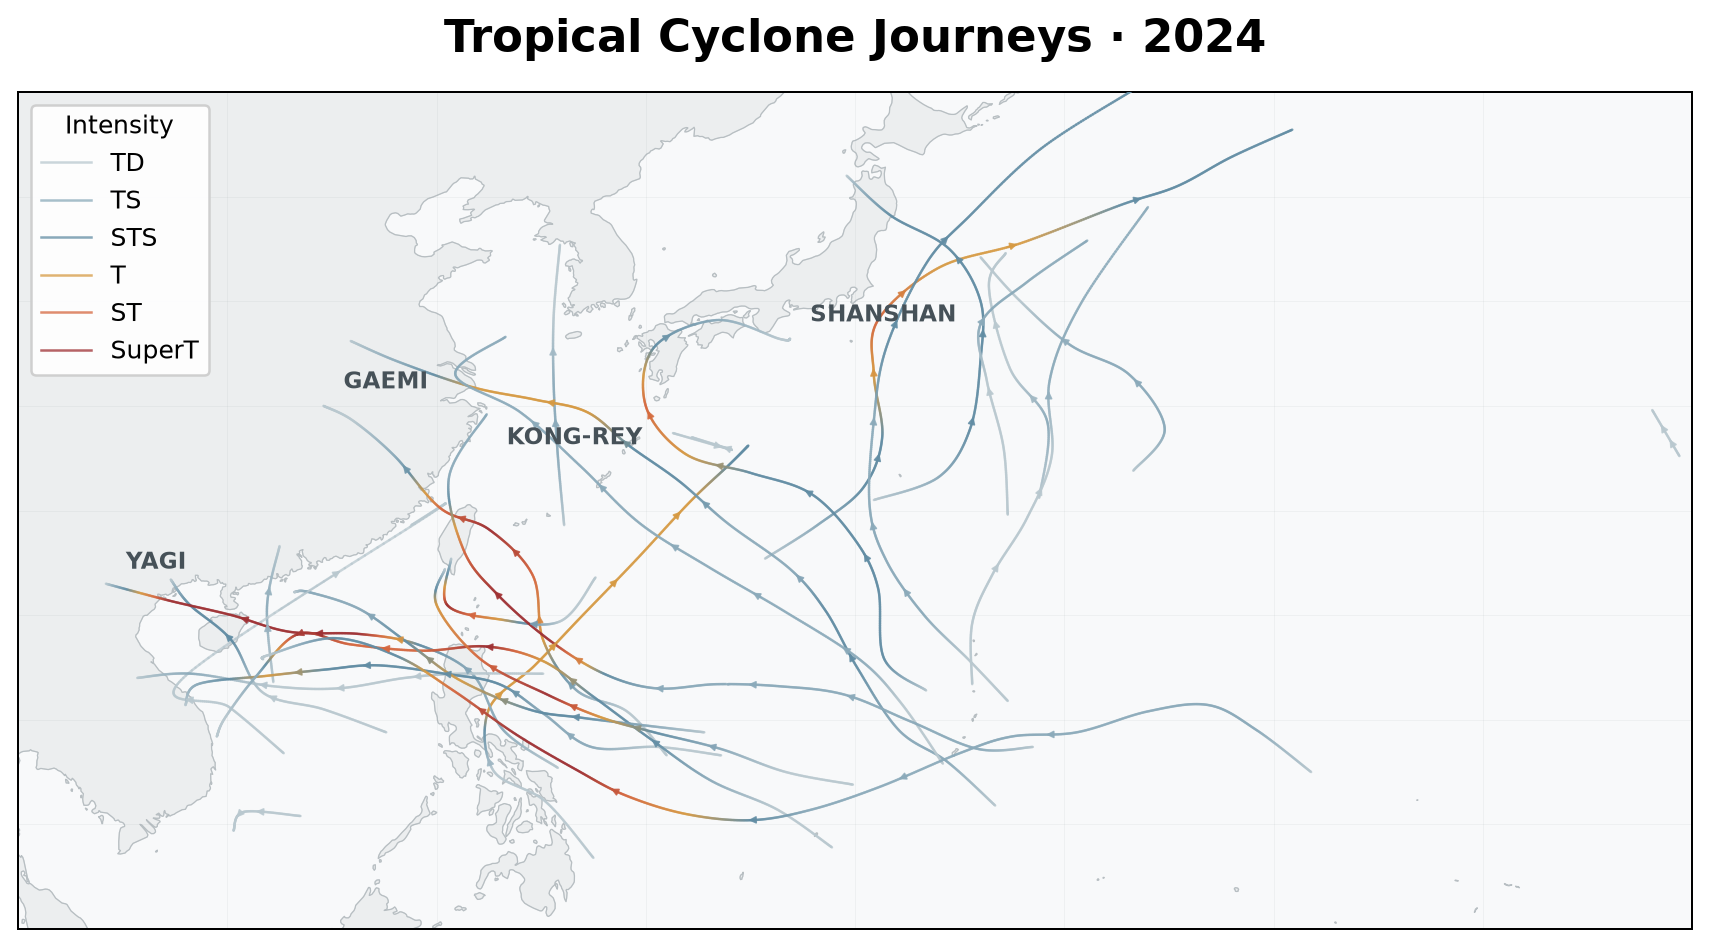
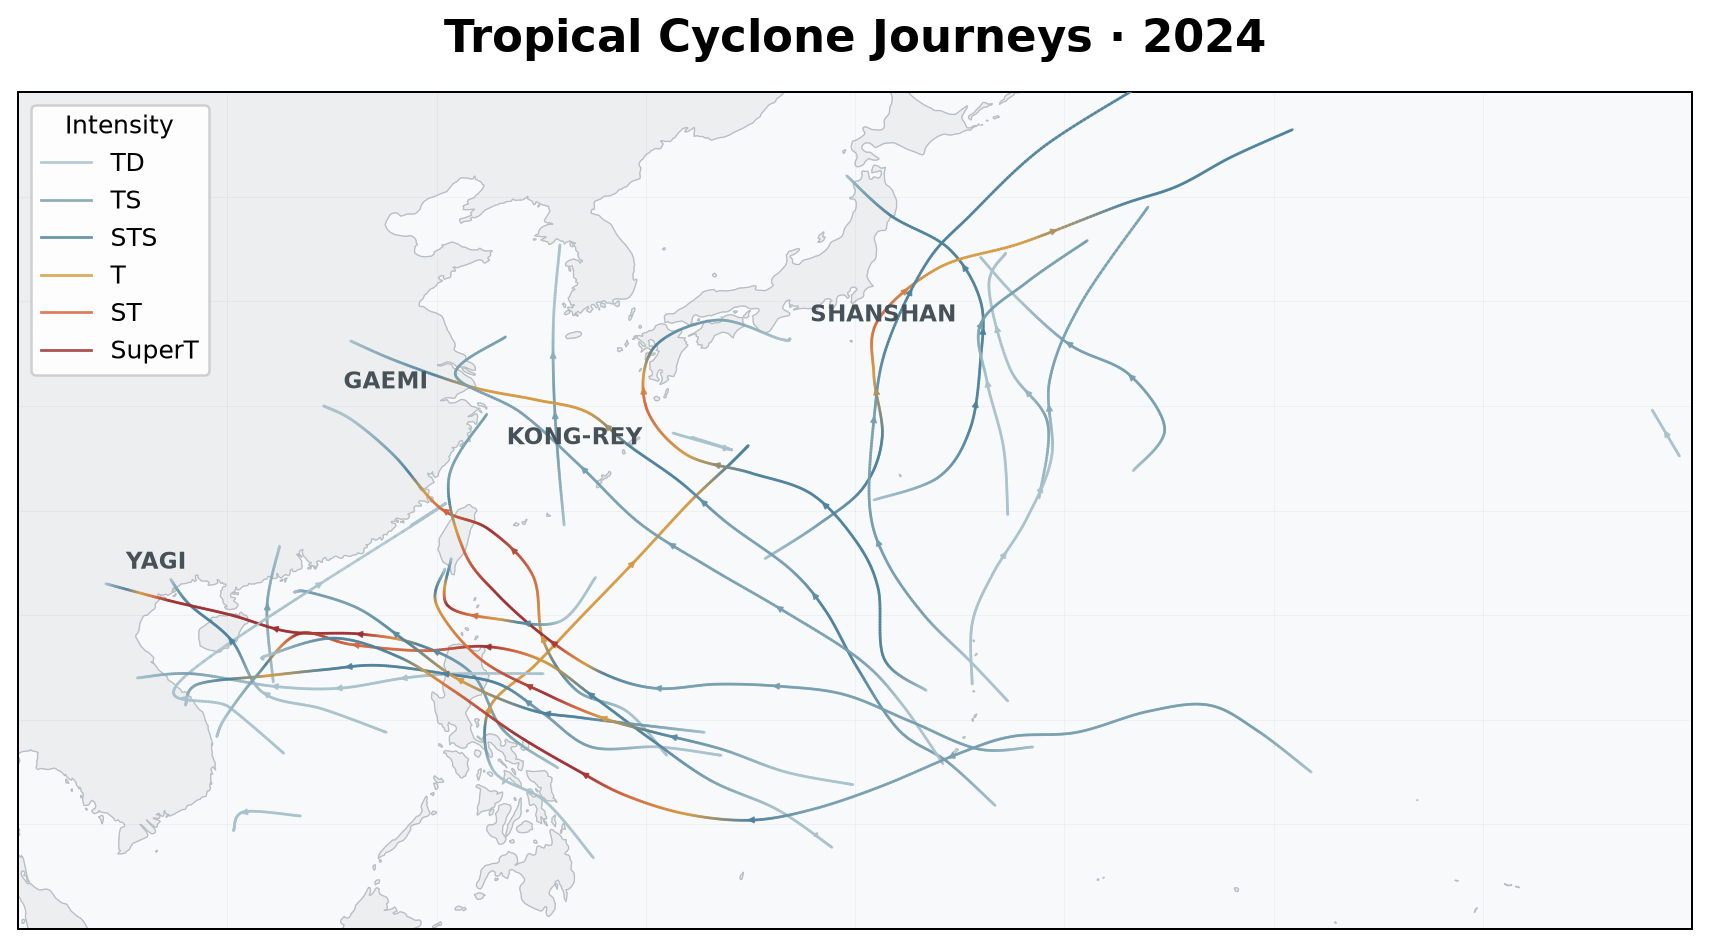
new trial on making the trackline into arrow

diff --git a/plot.py b/plot.py
@@ -6,7 +6,7 @@
 """
 Visualise 2024 Hong Kong Observatory tropical cyclone tracks.
 
-V16 visual design:
+V17 visual design:
 
     - geographic position -> location
     - trajectory -> movement
@@ -15,8 +15,12 @@ V16 visual design:
     - line width -> fixed
     - opacity -> fixed
 
-The arrows are used as subtle directional cues rather than
-large decorative markers.
+Design goal:
+
+    Confident lines + quiet hierarchy.
+
+Weak cyclones remain visible and clear,
+while stronger cyclones receive stronger colour emphasis.
 """
 
 import csv
@@ -49,10 +53,15 @@ OUT = HERE / "out"
 # INTENSITY COLOUR STYLE
 # ==================================================
 
+# V17:
+# The weak-intensity colours are slightly clearer
+# than V16 so that the tracks feel definite rather
+# than faded or uncertain.
+
 INTENSITY_COLORS = [
-    "#b9c8cf",   # TD
-    "#8baaba",   # TS
-    "#628da4",   # STS
+    "#a9c2cc",   # TD
+    "#789faf",   # TS
+    "#4f829d",   # STS
     "#d69a43",   # T
     "#d5673f",   # ST
     "#9e3033",   # SuperT
@@ -134,7 +143,10 @@ def distance(p1, p2):
 # SIMPLIFY TRACK
 # ==================================================
 
-def simplify_track(points, min_distance=2.5):
+def simplify_track(
+    points,
+    min_distance=2.5,
+):
     """
     Reduce the number of geographic control points.
 
@@ -145,7 +157,9 @@ def simplify_track(points, min_distance=2.5):
     if len(points) <= 2:
         return points
 
-    simplified = [points[0]]
+    simplified = [
+        points[0]
+    ]
 
     last_kept = (
         points[0]["longitude"],
@@ -164,11 +178,15 @@ def simplify_track(points, min_distance=2.5):
             current
         ) >= min_distance:
 
-            simplified.append(point)
+            simplified.append(
+                point
+            )
 
             last_kept = current
 
-    simplified.append(points[-1])
+    simplified.append(
+        points[-1]
+    )
 
     return simplified
 
@@ -182,10 +200,14 @@ def catmull_rom(
     p1,
     p2,
     p3,
-    steps=45,
+    steps=30,
 ):
     """
     Generate a smooth curve between p1 and p2.
+
+    V17 uses fewer interpolation steps than V16
+    to keep the trajectory smooth while reducing
+    the overly floating / uncertain appearance.
     """
 
     curve = []
@@ -260,7 +282,9 @@ def build_intensity_curve(points):
     coordinates = []
     intensities = []
 
-    for i in range(len(points) - 1):
+    for i in range(
+        len(points) - 1
+    ):
 
         # ------------------------------------------
         # Current control points
@@ -327,7 +351,7 @@ def build_intensity_curve(points):
             p1,
             p2,
             p3,
-            steps=45,
+            steps=30,
         )
 
         # ------------------------------------------
@@ -336,7 +360,7 @@ def build_intensity_curve(points):
 
         for j, coordinate in enumerate(curve):
 
-            t = j / 45
+            t = j / 30
 
             intensity_value = (
                 start_intensity
@@ -386,10 +410,11 @@ def plot_continuous_intensity_curve(
     """
     Draw one smooth cyclone trajectory.
 
-    V16:
+    V17:
         - colour represents intensity
         - line width is fixed
         - opacity is fixed
+        - lines are slightly more definite
     """
 
     if len(coordinates) < 2:
@@ -421,13 +446,13 @@ def plot_continuous_intensity_curve(
 
         cmap=INTENSITY_CMAP,
 
-        # Fixed line width.
-        linewidths=1.0,
+        # V17:
+        # Slightly stronger and more definite
+        # than V16.
+        linewidths=1.1,
 
-        # Fixed opacity.
-        alpha=0.75,
+        alpha=0.85,
 
-        # Rounded visual appearance.
         capstyle="round",
         joinstyle="round",
 
@@ -477,40 +502,48 @@ def add_direction_arrows(
     Add a small number of subtle directional arrows
     along one cyclone trajectory.
 
-    The arrows follow the actual trajectory direction.
-    They are intentionally small so that they function
-    as directional cues rather than visual markers.
+    V17:
+        - fewer arrows than V16
+        - smaller arrows
+        - arrows act as directional punctuation
+          rather than a repeated texture
     """
 
-    if len(coordinates) < 20:
+    if len(coordinates) < 30:
         return
 
     # ----------------------------------------------
-    # Determine arrow count from trajectory length
+    # Determine arrow count
     # ----------------------------------------------
 
-    arrow_count = max(
-        2,
-        min(
-            5,
-            len(coordinates) // 80,
-        ),
-    )
+    if len(coordinates) < 90:
+
+        arrow_count = 1
+
+    elif len(coordinates) < 180:
+
+        arrow_count = 2
+
+    else:
+
+        arrow_count = 3
+
 
     # ----------------------------------------------
-    # Leave enough space between arrows
+    # Keep arrows away from both ends
     # ----------------------------------------------
 
     usable_start = int(
-        len(coordinates) * 0.12
+        len(coordinates) * 0.18
     )
 
     usable_end = int(
-        len(coordinates) * 0.88
+        len(coordinates) * 0.82
     )
 
     if usable_end <= usable_start:
         return
+
 
     # ----------------------------------------------
     # Evenly distribute arrow positions
@@ -518,7 +551,9 @@ def add_direction_arrows(
 
     positions = []
 
-    for i in range(arrow_count):
+    for i in range(
+        arrow_count
+    ):
 
         fraction = (
             i + 1
@@ -535,7 +570,10 @@ def add_direction_arrows(
             )
         )
 
-        positions.append(index)
+        positions.append(
+            index
+        )
+
 
     # ----------------------------------------------
     # Draw each arrow
@@ -543,8 +581,8 @@ def add_direction_arrows(
 
     for index in positions:
 
-        # Size of the small arrow segment.
-        half_length = 5
+        # Shorter arrow segment than V16.
+        half_length = 4
 
         start_index = max(
             0,
@@ -567,8 +605,9 @@ def add_direction_arrows(
             end_index
         ]
 
+
         # ------------------------------------------
-        # Use the local intensity for arrow colour
+        # Use local intensity for arrow colour
         # ------------------------------------------
 
         intensity_value = intensities[
@@ -582,8 +621,9 @@ def add_direction_arrows(
             intensity_value / 5
         )
 
+
         # ------------------------------------------
-        # Small subtle arrow
+        # Small directional cue
         # ------------------------------------------
 
         arrow = FancyArrowPatch(
@@ -595,13 +635,14 @@ def add_direction_arrows(
 
             arrowstyle="-|>",
 
-            mutation_scale=6,
+            # Smaller than V16.
+            mutation_scale=5,
 
-            linewidth=0.65,
+            linewidth=0.75,
 
             color=color,
 
-            alpha=0.85,
+            alpha=0.90,
 
             zorder=4,
         )
@@ -940,9 +981,9 @@ def main():
                     ]
                 ],
 
-                linewidth=1.0,
+                linewidth=1.1,
 
-                alpha=0.75,
+                alpha=0.85,
 
                 label=intensity,
             )
